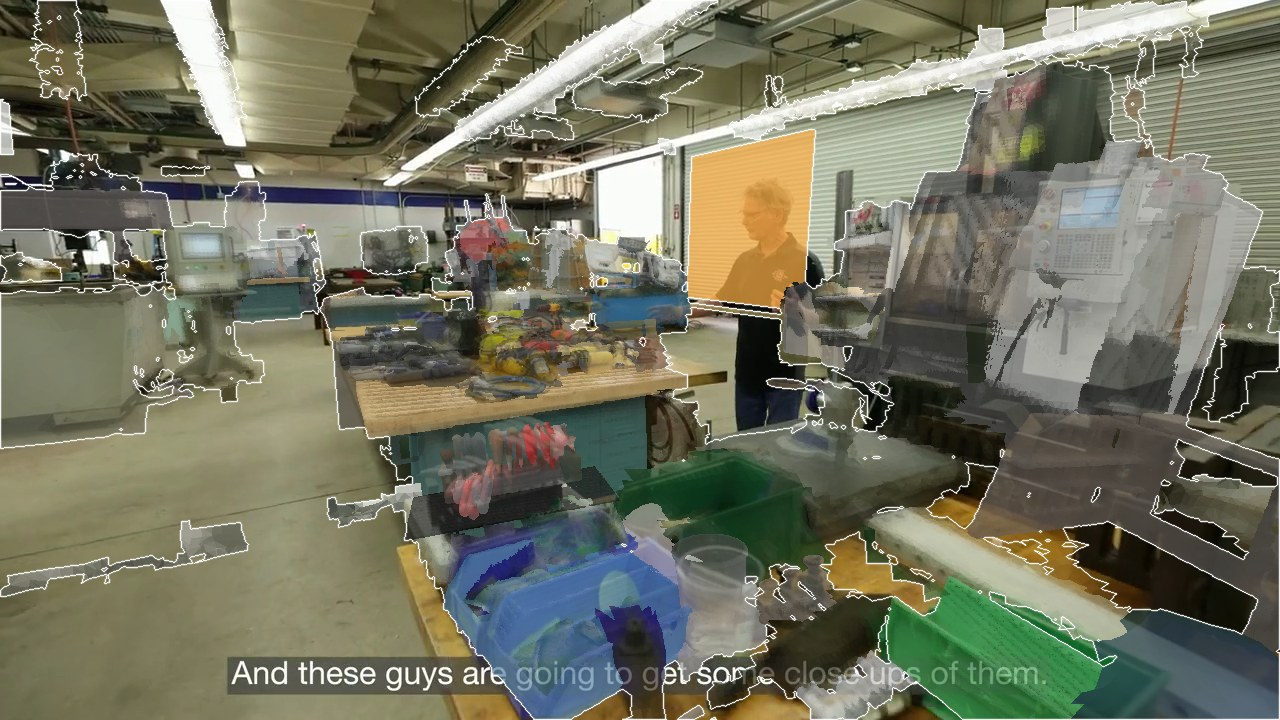
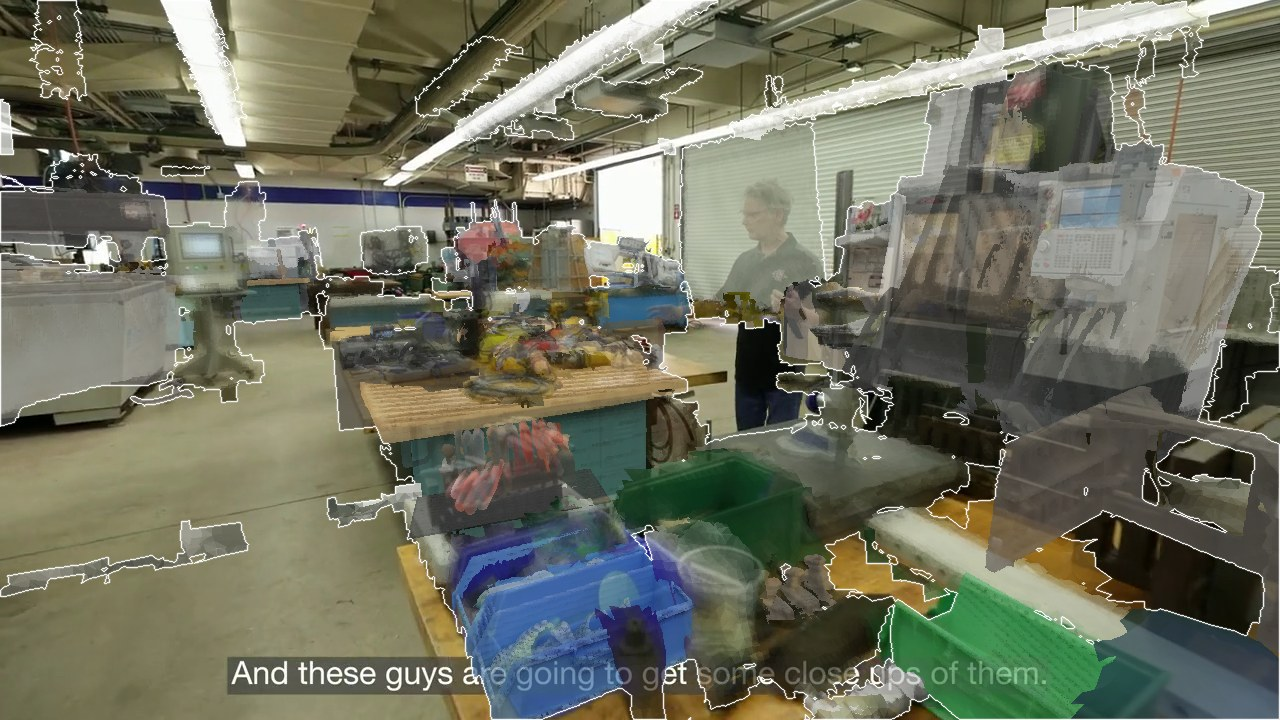
Update r6 preview to retained display-frame results

Changed region(s): [[0.1875, 0.0917, 1.0, 1.0], [0.0, 0.275, 0.1562, 0.6417], [0.0, 0.2444, 0.125, 0.275]]

diff --git a/phase2-r6-preview/index.html b/phase2-r6-preview/index.html
@@ -27,13 +27,14 @@
   <div class="scroll"><table>
     <thead><tr><th>视频</th><th>第 5 轮位置</th><th>修正版位置</th><th>轮廓重合度中位：旧 → 新</th><th>状态</th></tr></thead>
     <tbody>
-      <tr><td>ME340</td><td class="bad">错</td><td class="bad">仍错</td><td>0.493 → 0.552</td><td>新版 86/156 个非简单物体显示生成模型；总体重合度仍低于 0.6 目标</td></tr>
-      <tr><td>Sam’s Club</td><td class="bad">错</td><td class="bad">仍错</td><td>0.669 → 0.688</td><td>新版 12/28 个非简单物体显示生成模型；部分生成模型仍错位</td></tr>
-      <tr><td>Walmart</td><td class="bad">错</td><td class="bad">仍错</td><td>0.635 → 0.645</td><td>新版 247/373 个非简单物体显示生成模型；相邻鞋子仍有错配</td></tr>
+      <tr><td>ME340</td><td class="bad">错</td><td class="bad">仍错</td><td>0.493 → 0.556</td><td>72/159 个非简单物体显示 RecGen；生成模型重合度中位 0.623，但 14 个展示模型偏离超过 50 cm</td></tr>
+      <tr><td>Sam’s Club</td><td class="bad">错</td><td class="bad">仍错</td><td>0.669 → 0.687</td><td>11/28 个非简单物体显示 RecGen；43 个展示模型偏离超过 50 cm</td></tr>
+      <tr><td>Walmart</td><td class="bad">错</td><td class="bad">仍错</td><td>0.635 → 0.645</td><td>237/372 个非简单物体显示 RecGen；10 个展示模型偏离超过 50 cm</td></tr>
     </tbody>
   </table></div>
-  <p class="notice">三段视频的修正版均已跑完，模型覆盖率目标尚未达到。下方覆盖图分别比较同一视频帧；这是视觉预览，完整的点击物体 3D 交互仍在验证。</p>
+  <p class="notice">三段视频的本轮修正版均已跑完，位置正确性尚未验收。轻微偏差可容忍，但图中的大型机器、货架和商品仍有明显错位。下方覆盖图分别比较同一视频帧；这是视觉预览，完整的点击物体 3D 交互仍在验证。</p>
   <p>有真值的视频另做了地面位置检查：暖运行 595 张可评分物体卡，在真实相机高度下误差中位 9.84 cm；按产品当前假设的 1.6 m 相机高度则为 21.11 cm。五段真值视频共有 700 张物体卡，其中 30 张没有可评分的位置，均单独计为未验证。目标为真实高度下中位不超过 8 cm，目前未达到。</p>
+  <p>物体卡中，单视角的宽、高、深及可见长度只显示边界或“无法测量”，不直接给确定尺寸。本轮全部生成模型到齐用时：ME340 285 s、Sam’s Club 170 s、Walmart 445 s；均在上一轮各视频用时的 10% 范围内。</p>
   <section><h2>ME340 · 同帧对照：第 575 帧</h2><div class="grid">
     <figure><a href="images/me340-old.jpg"><img src="images/me340-old.jpg" alt="修复前第575帧的三维模型覆盖"></a><figcaption>修复前 · 第 575 帧</figcaption></figure>
     <figure><a href="images/me340-new.jpg"><img src="images/me340-new.jpg" alt="修正版第575帧的三维模型覆盖"></a><figcaption>修正版 · 第 575 帧</figcaption></figure>
